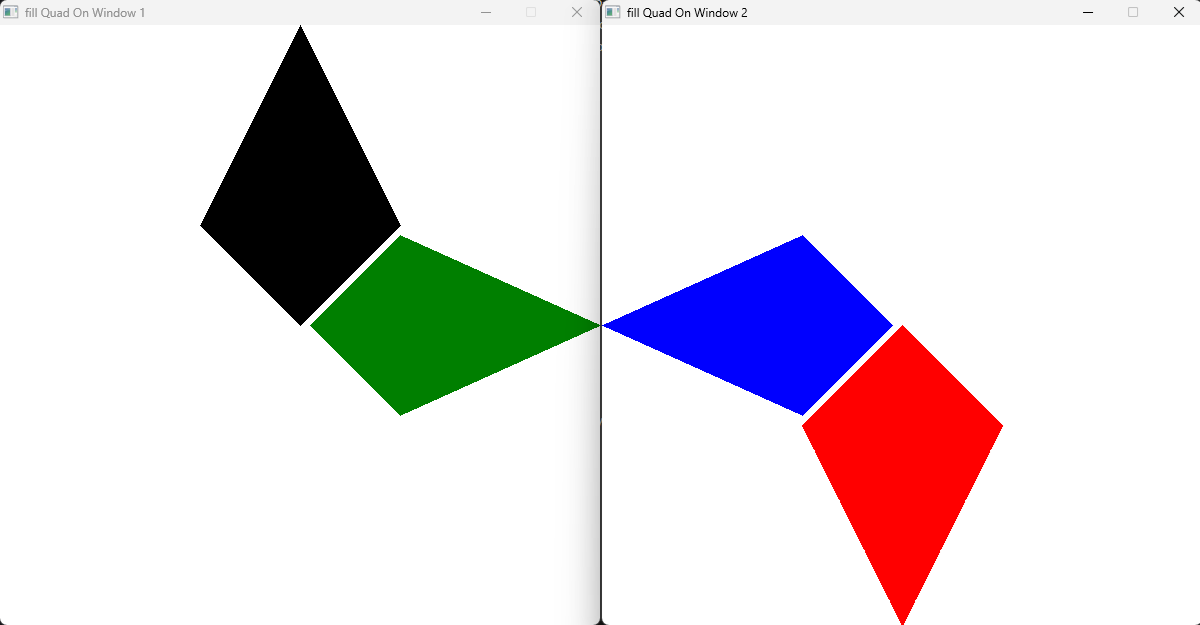
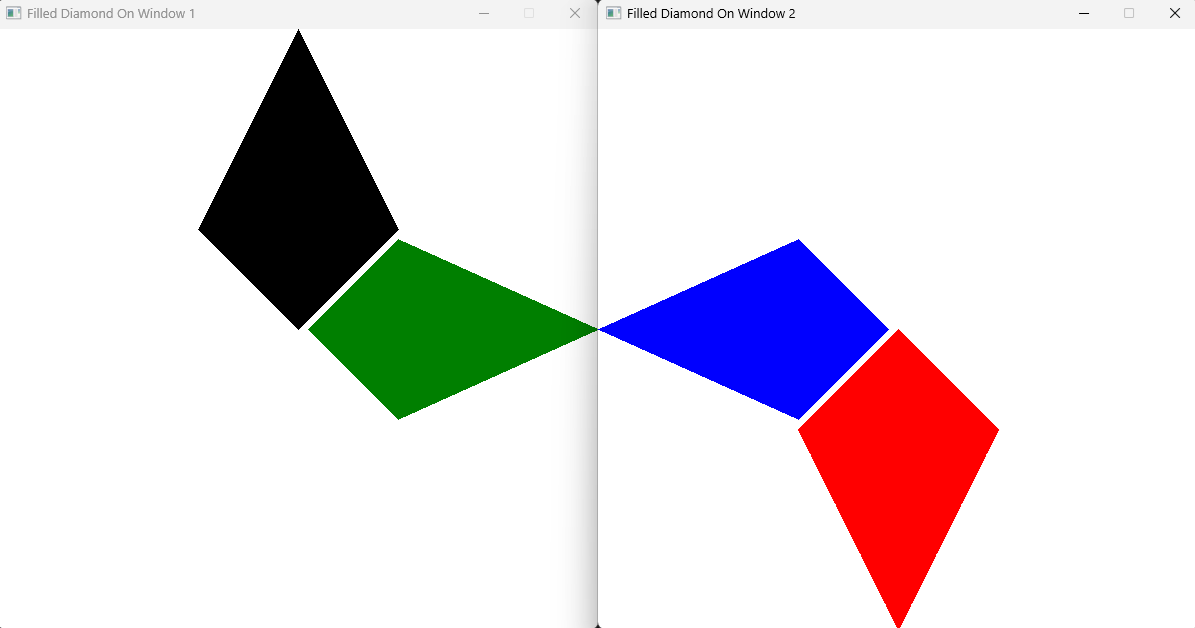
Updated OOP, reformatted code, updated description

diff --git a/public/usage-examples/graphics/fill_quad_on_window/fill_quad_on_window-1-simple-oop.cs b/public/usage-examples/graphics/fill_quad_on_window/fill_quad_on_window-1-simple-oop.cs
@@ -1,27 +1,26 @@
 using SplashKitSDK;
 
-namespace FillQuadOnWindow
+namespace FillQuadOnWindowExample
 {
     public class Program
     {
         public static void Main()
         {
-            // Initialise quads with x1,y1,...,x4,y4
-            Quad q1 = SplashKit.QuadFrom(400,200,300,300,300,0,200,200);
-            Quad q2 = SplashKit.QuadFrom(400,210,310,300,600,300,400,390);
-            Quad q3 = SplashKit.QuadFrom(200,400,300,300,300,600,400,400);
-            Quad q4 = SplashKit.QuadFrom(200,390,290,300,0,300,200,210);
+            // Initialise quads with x1, y1,..., x4, y4
+            Quad Q1 = SplashKit.QuadFrom(400, 200, 300, 300, 300, 0, 200, 200);
+            Quad Q2 = SplashKit.QuadFrom(400, 210, 310, 300, 600, 300, 400, 390);
+            Quad Q3 = SplashKit.QuadFrom(200, 400, 300, 300, 300, 600, 400, 400);
+            Quad Q4 = SplashKit.QuadFrom(200, 390, 290, 300, 0, 300, 200, 210);
 
             // Create Window
+            Window window1 = new Window("Filled Diamond On Window 1", 600, 600);
+            Window window2 = new Window("Filled Diamond On Window 2", 600, 600);
+            SplashKit.ClearScreen(Color.White);
 
-            Window window1 = SplashKit.OpenWindow("Fill Quad On Window 1", 600, 600);
-            Window window2 = SplashKit.OpenWindow("Fill Quad On Window 2", 600, 600);
-            SplashKit.ClearScreen(SplashKit.ColorWhite());
-
-            SplashKit.FillQuadOnWindow(window1, SplashKit.ColorBlack(), q1);
-            SplashKit.FillQuadOnWindow(window1, SplashKit.ColorGreen(), q2);
-            SplashKit.FillQuadOnWindow(window2, SplashKit.ColorRed(), q3);
-            SplashKit.FillQuadOnWindow(window2, SplashKit.ColorBlue(), q4);
+            window1.FillQuad(Color.Black, Q1);
+            window1.FillQuad(Color.Green, Q2);
+            window2.FillQuad(Color.Red, Q3);
+            window2.FillQuad(Color.Blue, Q4);
             
             SplashKit.RefreshScreen();
             SplashKit.Delay(5000);

diff --git a/public/usage-examples/graphics/fill_quad_on_window/fill_quad_on_window-1-simple-top-level.cs b/public/usage-examples/graphics/fill_quad_on_window/fill_quad_on_window-1-simple-top-level.cs
@@ -1,21 +1,21 @@
 using SplashKitSDK;
 using static SplashKitSDK.SplashKit;
 
-//Initialise quads with x1,y1,...,x4,y4
-Quad q1 = QuadFrom(400,200,300,300,300,0,200,200);   
-Quad q2 = QuadFrom(400,210,310,300,600,300,400,390);
-Quad q3 = QuadFrom(200,400,300,300,300,600,400,400);
-Quad q4 = QuadFrom(200,390,290,300,0,300,200,210);   
+// Initialise quads with x1, y1,..., x4, y4
+Quad Q1 = QuadFrom(400, 200, 300, 300, 300, 0, 200, 200);   
+Quad Q2 = QuadFrom(400, 210, 310, 300, 600, 300, 400, 390);
+Quad Q3 = QuadFrom(200, 400, 300, 300, 300, 600, 400, 400);
+Quad Q4 = QuadFrom(200, 390, 290, 300, 0, 300, 200, 210);   
 
 // Create Window
-Window window1 = OpenWindow("Fill Quad On Window 1", 600, 600);
-Window window2 = OpenWindow("Fill Quad On Window 2", 600, 600);
+Window window1 = OpenWindow("Filled Diamond On Window 1", 600, 600);
+Window window2 = OpenWindow("Filled Diamond On Window 2", 600, 600);
 ClearScreen(ColorWhite());
 
-FillQuadOnWindow(window1, ColorBlack(), q1);
-FillQuadOnWindow(window1, ColorGreen(), q2);
-FillQuadOnWindow(window2, ColorRed(), q3);
-FillQuadOnWindow(window2, ColorBlue(), q4);
+FillQuadOnWindow(window1, ColorBlack(), Q1);
+FillQuadOnWindow(window1, ColorGreen(), Q2);
+FillQuadOnWindow(window2, ColorRed(), Q3);
+FillQuadOnWindow(window2, ColorBlue(), Q4);
 
 RefreshScreen();
 Delay(5000);

diff --git a/public/usage-examples/graphics/fill_quad_on_window/fill_quad_on_window-1-simple.cpp b/public/usage-examples/graphics/fill_quad_on_window/fill_quad_on_window-1-simple.cpp
@@ -2,15 +2,15 @@
 
 int main()
 {
-    // Initialise quads with x1,y1,...,x4,y4
-    quad q1 = quad_from(400,200,300,300,300,0,200,200);
-    quad q2 = quad_from(400,210,310,300,600,300,400,390);
-    quad q3 = quad_from(200,400,300,300,300,600,400,400);
-    quad q4 = quad_from(200,390,290,300,0,300,200,210);
+    // Initialise quads with x1, y1,..., x4, y4
+    quad q1 = quad_from(400, 200, 300, 300, 300, 0, 200, 200);
+    quad q2 = quad_from(400, 210, 310, 300, 600, 300, 400, 390);
+    quad q3 = quad_from(200, 400, 300, 300, 300, 600, 400, 400);
+    quad q4 = quad_from(200, 390, 290, 300, 0, 300, 200, 210);
     
     // Create Window
-    window window1 = open_window("Fill Quad On Window 1", 600, 600);
-    window window2 = open_window("Fill Quad On Window 2", 600, 600);
+    window window1 = open_window("Filled Diamond On Window 1", 600, 600);
+    window window2 = open_window("Filled Diamond On Window 2", 600, 600);
     clear_screen(COLOR_WHITE);
 
     fill_quad_on_window(window1, COLOR_BLACK, q1);
@@ -22,5 +22,3 @@ int main()
     close_all_windows();
     return 0;
 }
-    
-    

diff --git a/public/usage-examples/graphics/fill_quad_on_window/fill_quad_on_window-1-simple.py b/public/usage-examples/graphics/fill_quad_on_window/fill_quad_on_window-1-simple.py
@@ -1,14 +1,14 @@
 from splashkit import *
 
-# Initialise quads with x1,y1,...,x4,y4
-q1 = quad_from(400,200,300,300,300,0,200,200)
-q2 = quad_from(400,210,310,300,600,300,400,390)
-q3 = quad_from(200,400,300,300,300,600,400,400)
-q4 = quad_from(200,390,290,300,0,300,200,210)
+# Initialise quads with x1, y1,..., x4, y4
+q1 = quad_from(400, 200, 300, 300, 300, 0, 200, 200)
+q2 = quad_from(400, 210, 310, 300, 600, 300, 400, 390)
+q3 = quad_from(200, 400, 300, 300, 300, 600, 400, 400)
+q4 = quad_from(200, 390, 290, 300, 0, 300, 200, 210)
 
 # Create Window
-window1 = open_window("Fill Quad", 600, 600)
-window2 = open_window("Fill Quad", 600, 600)
+window1 = open_window("Filled Diamond On Window 1", 600, 600)
+window2 = open_window("Filled Diamond On Window 2", 600, 600)
 clear_screen(color_white())
 
 fill_quad_on_window(window1, color_black(), q1)
